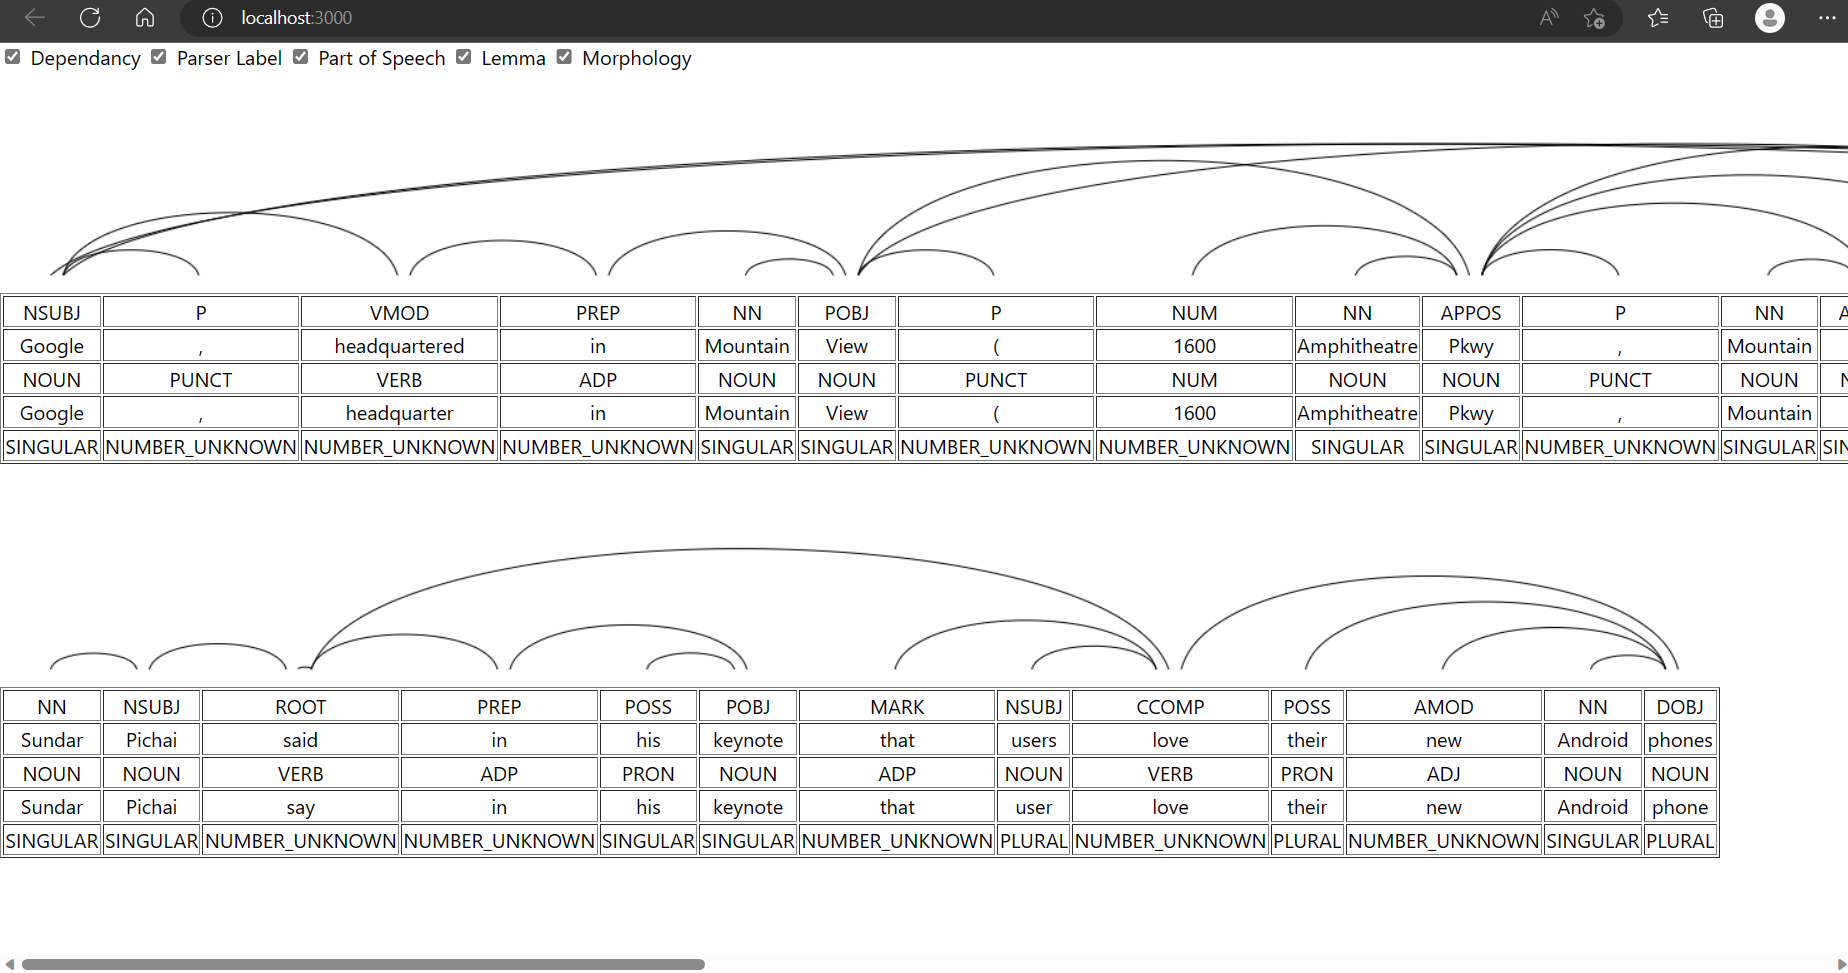
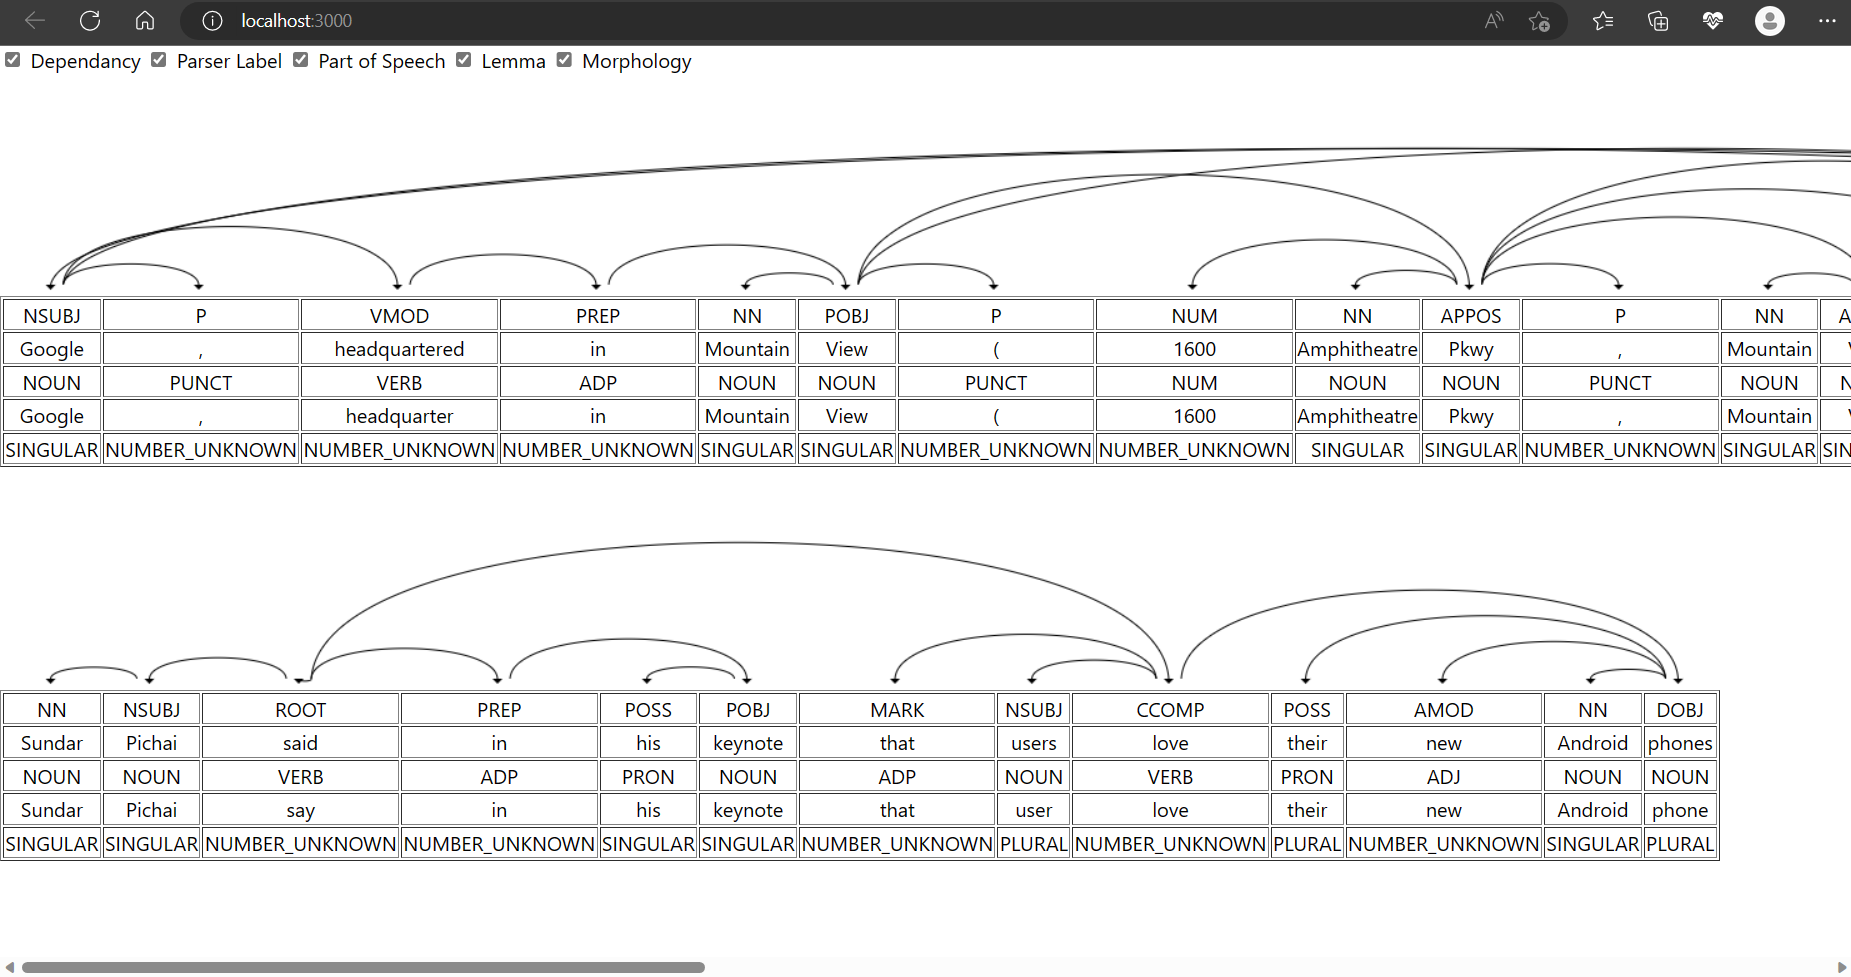
Added arrowhead and updated screenshots

diff --git a/src/Graph.jsx b/src/Graph.jsx
@@ -82,84 +82,68 @@ function Graph({
     if (!firstRowTableDataNodes) return;
 
     tokens.map((token, index) => {
+
       const edgeToTdElementIndex = token["dependencyEdge"]["headTokenIndex"];
 
       const edgeFromTdElement = firstRowTableDataNodes[index];
       const edgeToTdElement = firstRowTableDataNodes[edgeToTdElementIndex];
 
-      let edgeFromTdElementX =
-        edgeFromTdElement?.offsetLeft + edgeFromTdElement.clientWidth / 2; //calculating td midpoint for edgeFromElement
-      let edgeFromTdElementY = canvasHeight - 10;
+      //calculating td midpoint for edgeFromElement
+      let edgeFromTdElementX = edgeFromTdElement?.offsetLeft + edgeFromTdElement.clientWidth / 2; 
+      let edgeFromTdElementY = canvasHeight - 5;
 
-      let edgeToTdElementX =
-        edgeToTdElement?.offsetLeft + edgeToTdElement.clientWidth / 2; //calculating td midpoint for edgeToElement
-      let edgeToTdElementY = canvasHeight - 10;
+      //calculating td midpoint for edgeToElement
+      let edgeToTdElementX = edgeToTdElement?.offsetLeft + edgeToTdElement.clientWidth / 2; 
+      let edgeToTdElementY = canvasHeight - 5;
 
-      let quadraticCurveMidpointX = 0;
-      let quadraticCurveMidpointY = 0;
-      let bexierCurveMidpointOneX = 0;
-      let bexierCurveMidpointOneY = 0;
-      let bexierCurveMidpointTwoX = 0;
-      let bexierCurveMidpointTwoY = 0;
+      let bezierCurveMidpointOneX = 0;
+      let bezierCurveMidpointOneY = 0;
+      let bezierCurveMidpointTwoX = 0;
+      let bezierCurveMidpointTwoY = 0;
 
       // edge going to right
       if (edgeFromTdElementX < edgeToTdElementX) {
         edgeToTdElementX -= 10;
-        quadraticCurveMidpointX =
-          edgeFromTdElementX +
-          Math.abs(edgeFromTdElementX - edgeToTdElementX) / 2;
-        bexierCurveMidpointOneX =
-          edgeFromTdElementX +
-          Math.abs(edgeFromTdElementX - edgeToTdElementX) / 15;
-        bexierCurveMidpointTwoX =
-          edgeToTdElementX -
-          Math.abs(edgeFromTdElementX - edgeToTdElementX) / 15;
+        bezierCurveMidpointOneX = edgeFromTdElementX + (Math.abs(edgeFromTdElementX - edgeToTdElementX) * 1/60);
+        bezierCurveMidpointTwoX = edgeToTdElementX - (Math.abs(edgeFromTdElementX - edgeToTdElementX) * 1/60);
       } else {
         // edge going to left
         edgeToTdElementX += 10;
-        quadraticCurveMidpointX =
-          edgeToTdElementX +
-          Math.abs(edgeFromTdElementX - edgeToTdElementX) / 2;
-        bexierCurveMidpointOneX =
-          edgeFromTdElementX -
-          Math.abs(edgeFromTdElementX - edgeToTdElementX) / 15;
-        bexierCurveMidpointTwoX =
-          edgeToTdElementX +
-          Math.abs(edgeFromTdElementX - edgeToTdElementX) / 15;
+        bezierCurveMidpointOneX = edgeFromTdElementX - (Math.abs(edgeFromTdElementX - edgeToTdElementX) * 1/60);
+        bezierCurveMidpointTwoX = edgeToTdElementX + (Math.abs(edgeFromTdElementX - edgeToTdElementX) * 1/60);
       }
 
-      quadraticCurveMidpointY = Math.abs(
-        canvasHeight - (1 / 4) * Math.abs(edgeFromTdElementX - edgeToTdElementX)
-      );
-      if (quadraticCurveMidpointY > canvasHeight) quadraticCurveMidpointY = 0;
-      else quadraticCurveMidpointY = quadraticCurveMidpointY - 10;
+      let calculatedCurveMidPointOneY = Math.abs(edgeFromTdElementX - edgeToTdElementX) * 1/4
+      if(calculatedCurveMidPointOneY > canvasHeight) bezierCurveMidpointOneY = 0
+      else bezierCurveMidpointOneY =  Math.abs(canvasHeight - calculatedCurveMidPointOneY)
 
-      bexierCurveMidpointOneY = Math.abs(
-        canvasHeight - (1 / 4) * Math.abs(edgeFromTdElementX - edgeToTdElementX)
-      );
-      if (bexierCurveMidpointOneY > canvasHeight) bexierCurveMidpointOneY = 0;
-      else bexierCurveMidpointOneY = bexierCurveMidpointOneY - 10;
-
-      bexierCurveMidpointTwoY = Math.abs(
-        canvasHeight - (1 / 4) * Math.abs(edgeFromTdElementX - edgeToTdElementX)
-      );
-      if (bexierCurveMidpointTwoY > canvasHeight) bexierCurveMidpointTwoY = 0;
-      else bexierCurveMidpointTwoY = bexierCurveMidpointTwoY - 10;
+      let calculatedCurveMidPointTwoY = Math.abs(edgeFromTdElementX - edgeToTdElementX) * 1/4
+      if(calculatedCurveMidPointTwoY > canvasHeight) bezierCurveMidpointTwoY = 0
+      else bezierCurveMidpointTwoY =  Math.abs(canvasHeight - calculatedCurveMidPointTwoY)
 
       // Drawing curve edges
       if (canvasNode.getContext) {
+
         const ctx = canvasNode.getContext("2d");
         ctx.beginPath();
         ctx.moveTo(edgeFromTdElementX, edgeFromTdElementY);
         ctx.bezierCurveTo(
-          bexierCurveMidpointOneX,
-          bexierCurveMidpointOneY,
-          bexierCurveMidpointTwoX,
-          bexierCurveMidpointTwoY,
+          bezierCurveMidpointOneX,
+          bezierCurveMidpointOneY,
+          bezierCurveMidpointTwoX,
+          bezierCurveMidpointTwoY,
           edgeToTdElementX,
           edgeToTdElementY
         );
         ctx.stroke();
+
+        // Drawing arrowhead
+        ctx.beginPath()
+        ctx.moveTo(edgeFromTdElementX, edgeFromTdElementY);
+        ctx.lineTo(edgeFromTdElementX - 4, edgeFromTdElementY)
+        ctx.lineTo(edgeFromTdElementX, edgeFromTdElementY + 4)
+        ctx.lineTo(edgeFromTdElementX + 4, edgeFromTdElementY)
+        ctx.fill()
       }
     });
   }, [tableRows, showLabel, showLemma, showMorphology, showPartOfSpeech]);
